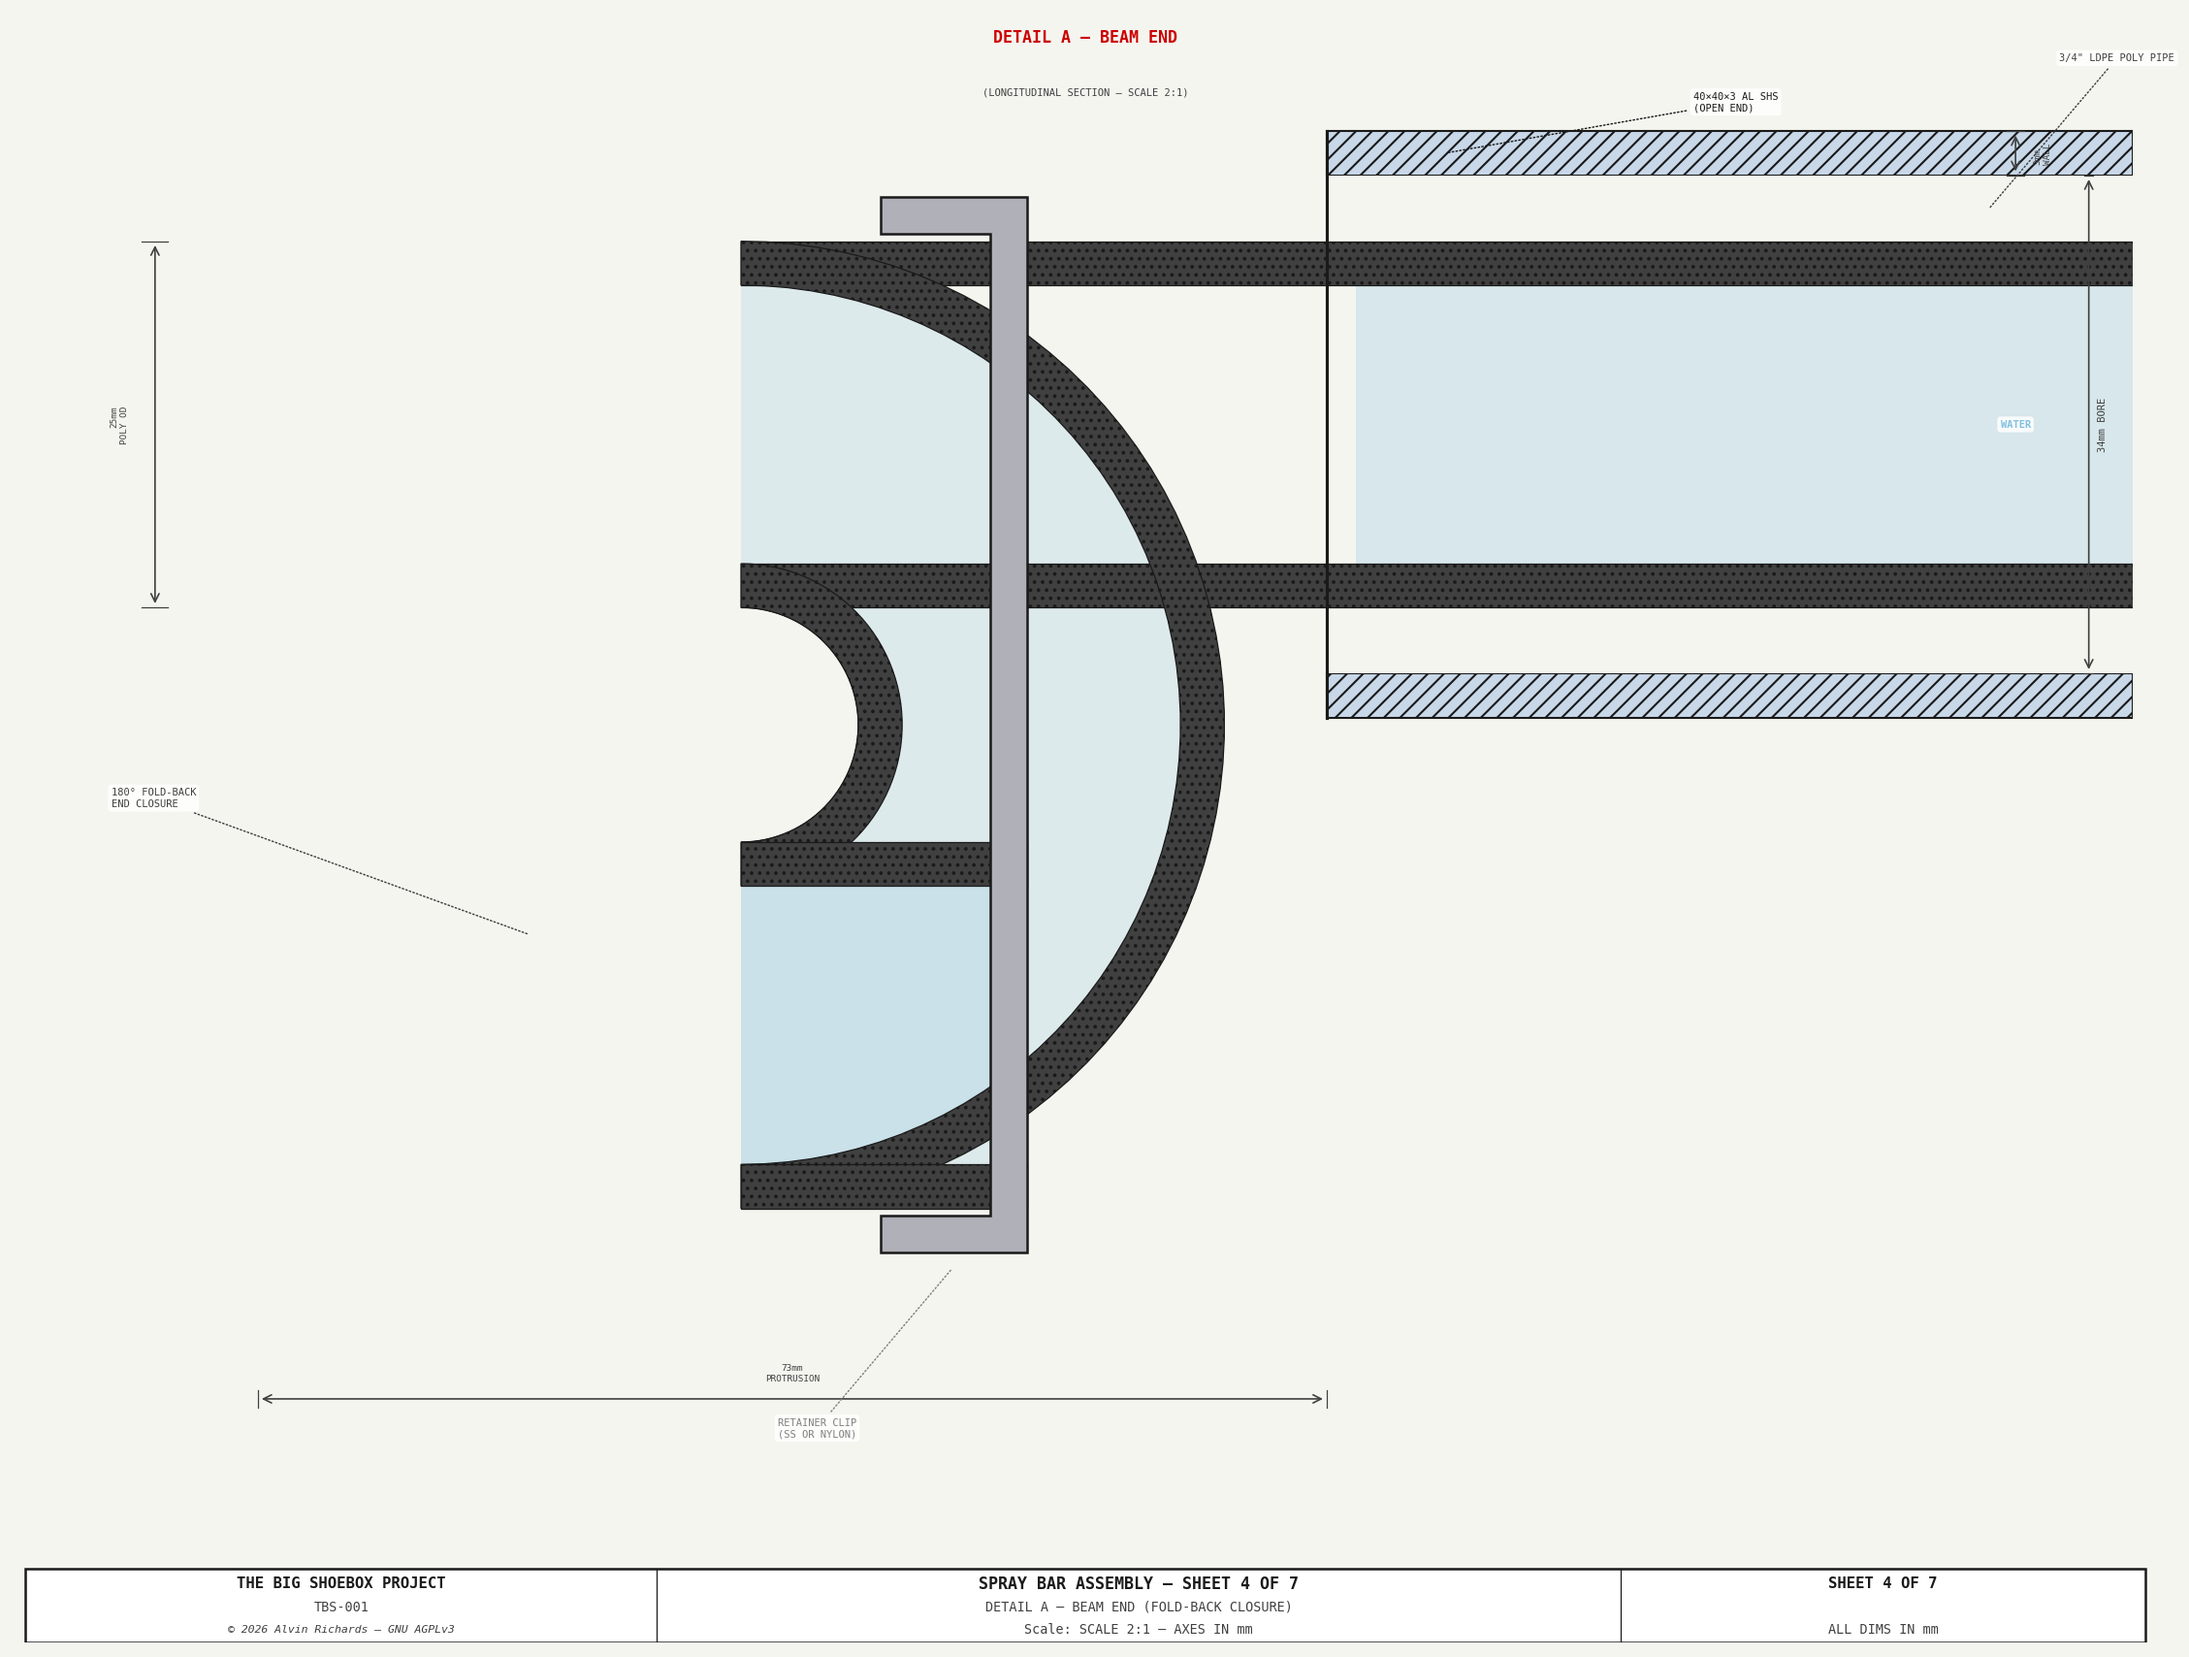
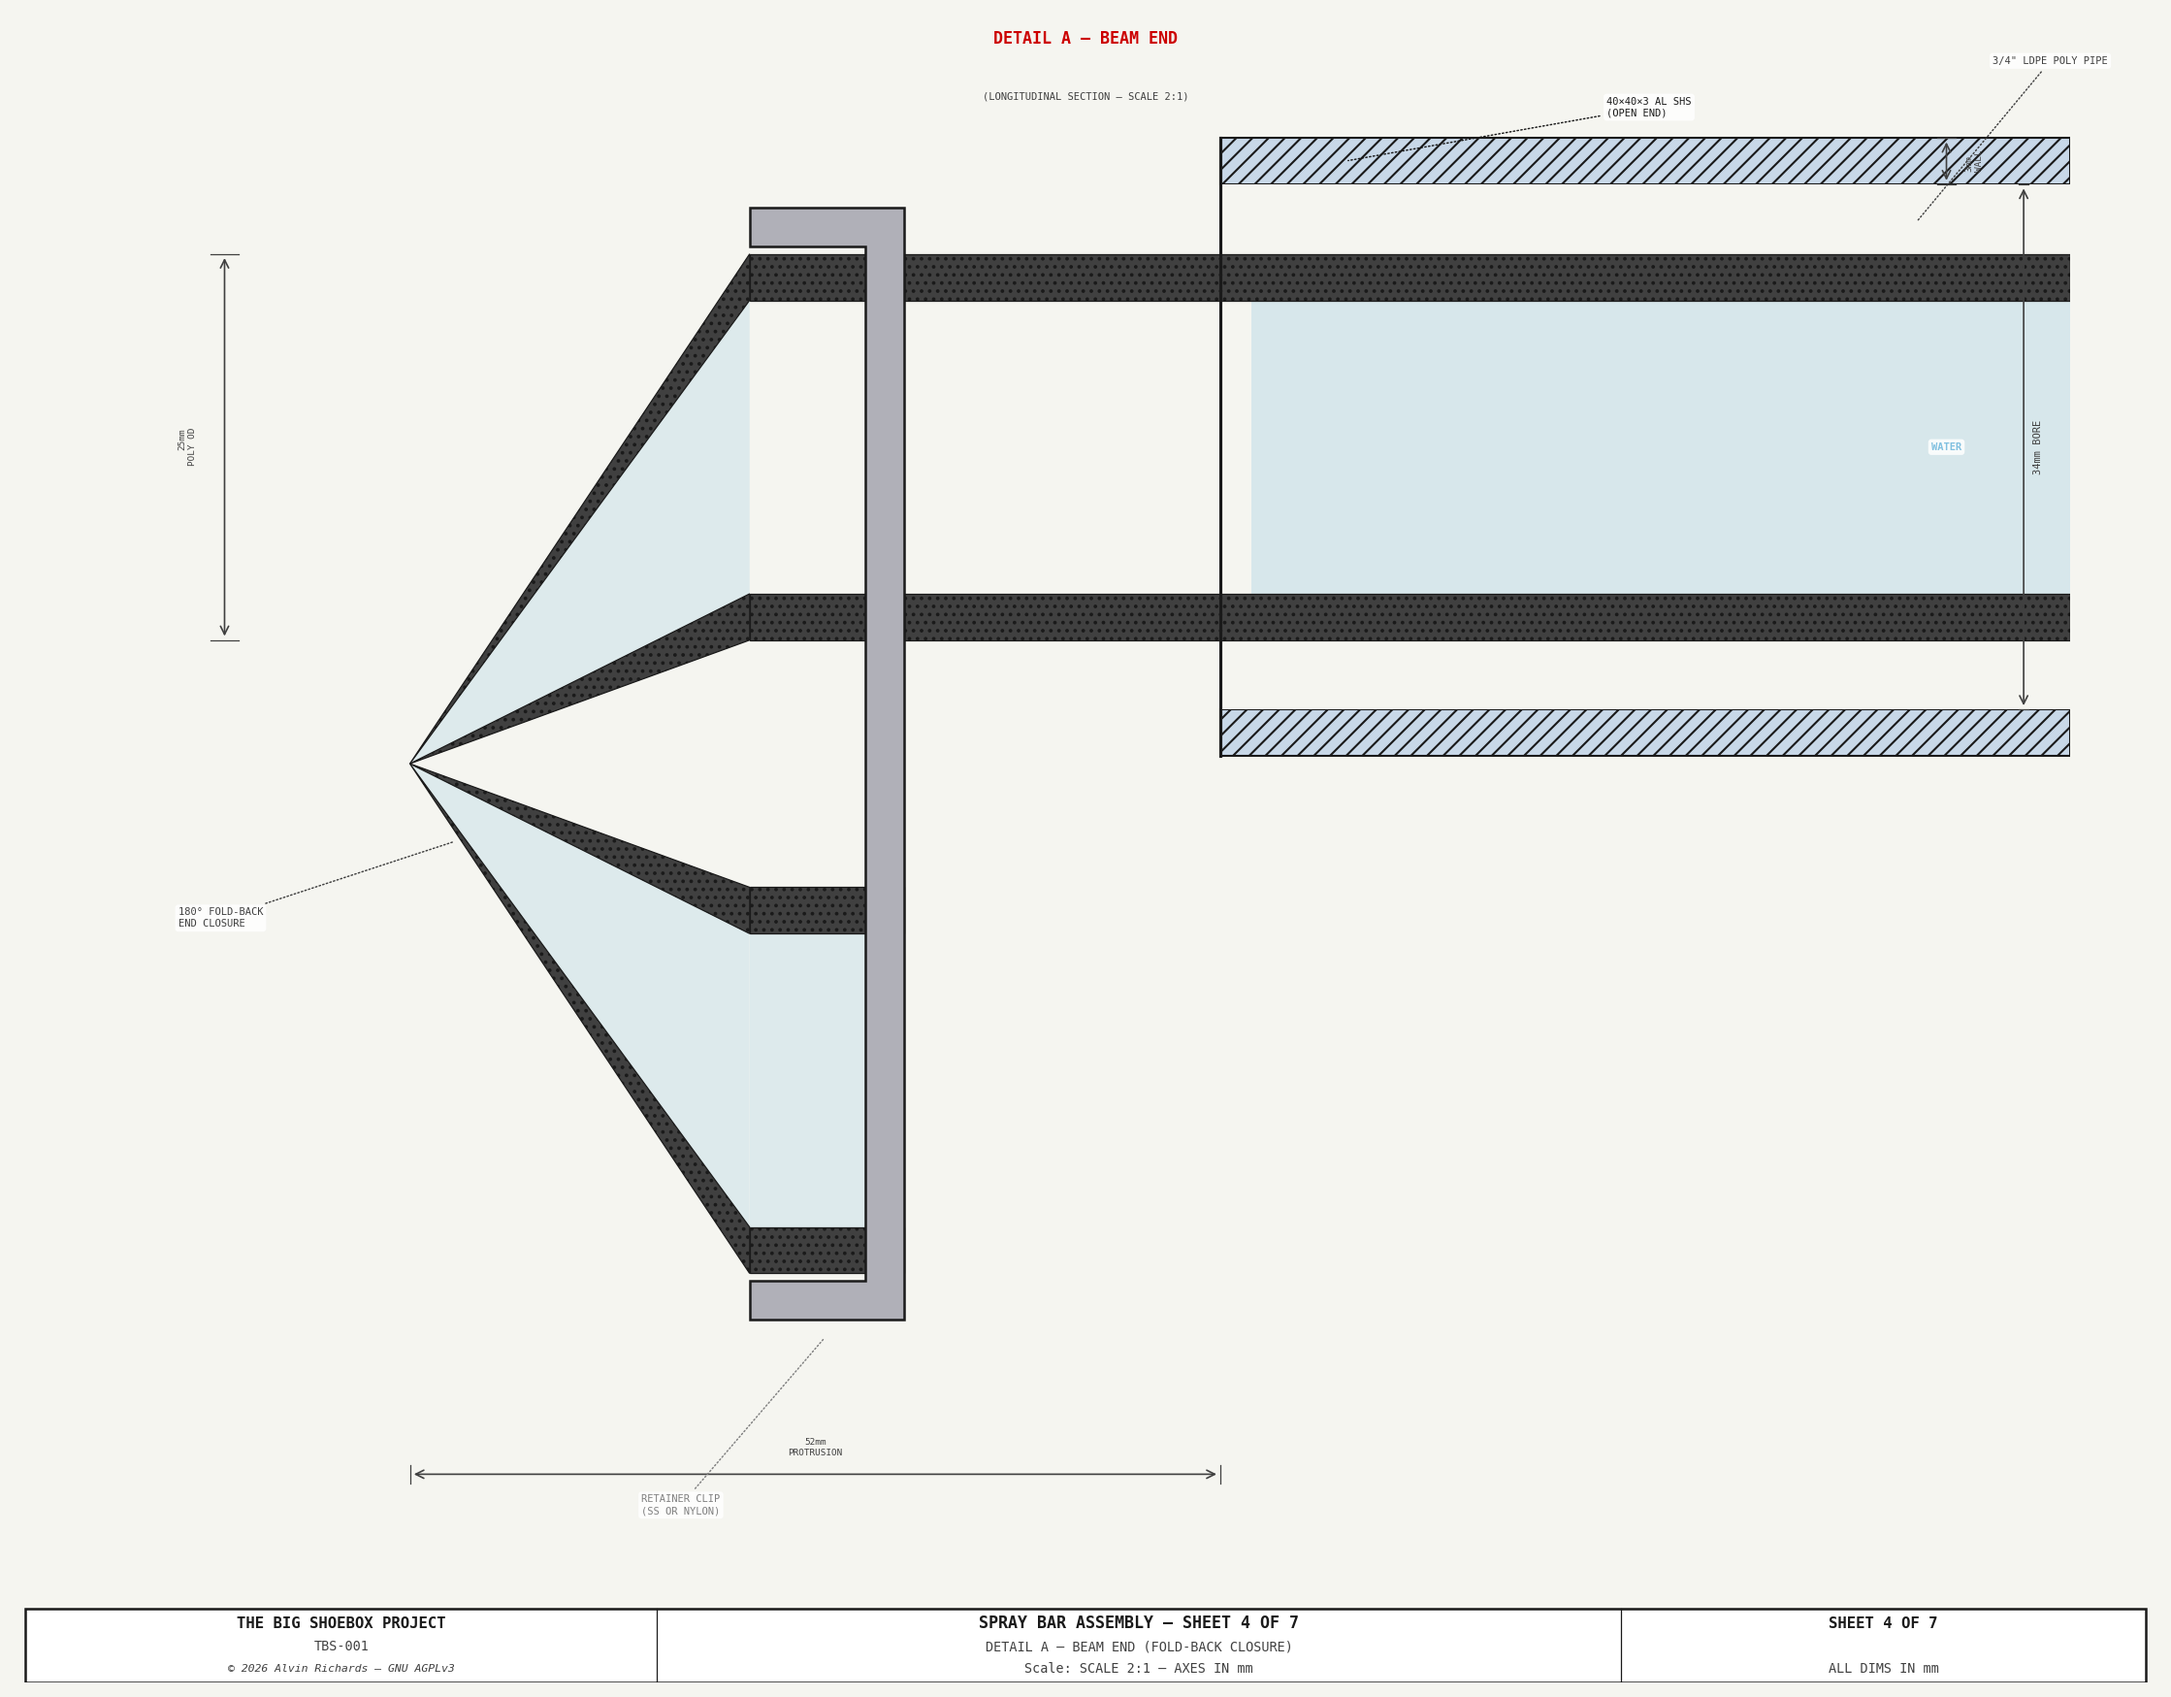
Sheet 4: redraw fold-back pipes with tapered convergence at retainer clip
Replace semicircular bend with tapered representation: pipe walls
parallel through the clip, outside edges converge to a point left
of the clip showing the fold-back closure apex.

diff --git a/generate_spray_bar_diagram.py b/generate_spray_bar_diagram.py
@@ -1103,7 +1103,12 @@ def draw_sheet4():
     fold_apex_x = beam_end_x - pipe_past
     fold_leg_len = pipe_past - bend_center_r  # straight portion of return leg
 
-    d_xl = fold_apex_x - bend_center_r - poly_od_h - 15
+    # Pre-compute taper point for view limits
+    _clip_x_pre = (fold_apex_x + fold_leg_len - 5
+                   if fold_leg_len > 10 else beam_end_x - 10)
+    _taper_x_pre = _clip_x_pre - 10 / 2 - 22
+
+    d_xl = _taper_x_pre - 20
     d_xr = 55
     d_yb = fold_leg_y - poly_od_h - 18
     d_yt = beam_half + 8
@@ -1136,99 +1141,83 @@ def draw_sheet4():
     ax_a.add_patch(Rectangle((beam_end_x, -bore_half), d_xr - beam_end_x, BEAM_BORE,
                    fc=C_BG, ec="none", zorder=3.5))
 
-    # ── Main pipe run — top and bottom walls as hatched sections ─────────
-    pipe_start_x = fold_apex_x
-    ax_a.add_patch(Rectangle((pipe_start_x, poly_id_h),
-                   d_xr - pipe_start_x, POLY_WALL,
-                   fc="#404040", ec=C_FRAME, lw=0.6, hatch="...", zorder=4))
-    ax_a.add_patch(Rectangle((pipe_start_x, -poly_od_h),
-                   d_xr - pipe_start_x, POLY_WALL,
-                   fc="#404040", ec=C_FRAME, lw=0.6, hatch="...", zorder=4))
-
-    # ── Water inside main pipe ──────────────────────────────────────────
-    ax_a.add_patch(Rectangle((beam_end_x + 2, -poly_id_h),
-                   d_xr - beam_end_x - 2, POLY_ID,
-                   fc=C_WATER, ec="none", alpha=0.25, zorder=3.8))
-
-    # ── Fold-back section (sectional view showing pipe walls) ────────────
-    bend_cy = -fold_offset / 2     # midpoint between main and fold leg centers
-    bend_cx = fold_apex_x
-
-    theta = np.linspace(np.pi / 2, -np.pi / 2, 60)
-
-    # Four arcs: outer wall outer surface, outer wall inner surface,
-    #            inner wall outer surface, inner wall inner surface
-    r_oo = bend_center_r + poly_od_h   # outer wall, outer surface
-    r_oi = bend_center_r + poly_id_h   # outer wall, inner surface
-    r_ii = bend_center_r - poly_id_h   # inner wall, inner surface
-    r_io = bend_center_r - poly_od_h   # inner wall, outer surface
-
-    def arc_pts(r):
-        return bend_cx + r * np.cos(theta), bend_cy + r * np.sin(theta)
-
-    # Outer pipe wall (outer side of bend)
-    oo_x, oo_y = arc_pts(r_oo)
-    oi_x, oi_y = arc_pts(r_oi)
-    outer_wall_xs = list(oo_x) + list(oi_x[::-1])
-    outer_wall_ys = list(oo_y) + list(oi_y[::-1])
-    ax_a.add_patch(mpatches.Polygon(list(zip(outer_wall_xs, outer_wall_ys)),
-                   closed=True, fc="#404040", ec=C_FRAME, lw=0.6,
-                   hatch="...", zorder=4))
-
-    # Inner pipe wall (inner side of bend)
-    io_x, io_y = arc_pts(r_io)
-    ii_x, ii_y = arc_pts(r_ii)
-    inner_wall_xs = list(ii_x) + list(io_x[::-1])
-    inner_wall_ys = list(ii_y) + list(io_y[::-1])
-    ax_a.add_patch(mpatches.Polygon(list(zip(inner_wall_xs, inner_wall_ys)),
-                   closed=True, fc="#404040", ec=C_FRAME, lw=0.6,
-                   hatch="...", zorder=4))
-
-    # Water fill inside the bend (between inner surfaces)
-    water_xs = list(oi_x) + list(ii_x[::-1])
-    water_ys = list(oi_y) + list(ii_y[::-1])
-    ax_a.add_patch(mpatches.Polygon(list(zip(water_xs, water_ys)),
-                   closed=True, fc=C_WATER, ec="none", alpha=0.20, zorder=3.9))
-
-    # Inner void at bend center
-    void_x, void_y = arc_pts(r_io)
-    ax_a.add_patch(mpatches.Polygon(
-        list(zip(list(io_x), list(io_y))),
-        closed=False, fc="none", ec=C_FRAME, lw=0.4, zorder=4.1))
-
-    # ── Folded-back leg — top and bottom walls ──────────────────────────
-    fold_leg_right = fold_apex_x + bend_center_r  # where the bend meets the straight leg
-    # Ensure the leg starts where the bend ends
-    fold_leg_right = fold_apex_x
-    fold_leg_left = fold_leg_right + fold_leg_len
-    if fold_leg_len > 0:
-        ax_a.add_patch(Rectangle((fold_leg_right, fold_leg_y + poly_id_h),
-                       fold_leg_len, POLY_WALL,
-                       fc="#404040", ec=C_FRAME, lw=0.6, hatch="...", zorder=4))
-        ax_a.add_patch(Rectangle((fold_leg_right, fold_leg_y - poly_od_h),
-                       fold_leg_len, POLY_WALL,
-                       fc="#404040", ec=C_FRAME, lw=0.6, hatch="...", zorder=4))
-        # Water inside return leg
-        ax_a.add_patch(Rectangle((fold_leg_right, fold_leg_y - poly_id_h),
-                       fold_leg_len, POLY_ID,
-                       fc=C_WATER, ec="none", alpha=0.20, zorder=3.9))
-
-    # ── Retainer clip (holds fold closed) ────────────────────────────────
+    # ── Retainer clip position ──────────────────────────────────────────
+    fold_leg_left = fold_apex_x + fold_leg_len
     clip_x = fold_leg_left - 5 if fold_leg_len > 10 else beam_end_x - 10
     clip_w = 10
+    clip_left_x = clip_x - clip_w / 2
+    clip_right_x = clip_x + clip_w / 2
     clip_span_top = poly_od_h + 3
     clip_span_bot = fold_leg_y - poly_od_h - 3
     clip_t = 2.5
 
+    # ── Taper geometry — outside edges converge to a point left of clip ──
+    taper_len = 22
+    taper_x = clip_left_x - taper_len
+    taper_y = fold_leg_y / 2
+
+    # ── Main pipe — parallel from clip left to right edge ────────────────
+    ax_a.add_patch(Rectangle((clip_left_x, poly_id_h),
+                   d_xr - clip_left_x, POLY_WALL,
+                   fc="#404040", ec=C_FRAME, lw=0.6, hatch="...", zorder=4))
+    ax_a.add_patch(Rectangle((clip_left_x, -poly_od_h),
+                   d_xr - clip_left_x, POLY_WALL,
+                   fc="#404040", ec=C_FRAME, lw=0.6, hatch="...", zorder=4))
+    ax_a.add_patch(Rectangle((beam_end_x + 2, -poly_id_h),
+                   d_xr - beam_end_x - 2, POLY_ID,
+                   fc=C_WATER, ec="none", alpha=0.25, zorder=3.8))
+
+    # ── Fold-back leg — parallel through clip ────────────────────────────
+    ax_a.add_patch(Rectangle((clip_left_x, fold_leg_y + poly_id_h),
+                   clip_right_x - clip_left_x, POLY_WALL,
+                   fc="#404040", ec=C_FRAME, lw=0.6, hatch="...", zorder=4))
+    ax_a.add_patch(Rectangle((clip_left_x, fold_leg_y - poly_od_h),
+                   clip_right_x - clip_left_x, POLY_WALL,
+                   fc="#404040", ec=C_FRAME, lw=0.6, hatch="...", zorder=4))
+    ax_a.add_patch(Rectangle((clip_left_x, fold_leg_y - poly_id_h),
+                   clip_right_x - clip_left_x, POLY_ID,
+                   fc=C_WATER, ec="none", alpha=0.20, zorder=3.9))
+
+    # ── Tapered sections — left of clip, converging to point ─────────────
+    _pipe_fc = "#404040"
+    _pipe_kw = dict(fc=_pipe_fc, ec=C_FRAME, lw=0.6, hatch="...", zorder=4)
+    _water_kw = dict(fc=C_WATER, ec="none", alpha=0.20, zorder=3.9)
+
+    # Main pipe top wall taper
+    ax_a.add_patch(mpatches.Polygon([
+        (clip_left_x, poly_od_h), (clip_left_x, poly_id_h),
+        (taper_x, taper_y)], closed=True, **_pipe_kw))
+    # Main pipe bottom wall taper
+    ax_a.add_patch(mpatches.Polygon([
+        (clip_left_x, -poly_id_h), (clip_left_x, -poly_od_h),
+        (taper_x, taper_y)], closed=True, **_pipe_kw))
+    # Main pipe water taper
+    ax_a.add_patch(mpatches.Polygon([
+        (clip_left_x, poly_id_h), (clip_left_x, -poly_id_h),
+        (taper_x, taper_y)], closed=True, **_water_kw))
+    # Fold-back top wall taper
+    ax_a.add_patch(mpatches.Polygon([
+        (clip_left_x, fold_leg_y + poly_od_h), (clip_left_x, fold_leg_y + poly_id_h),
+        (taper_x, taper_y)], closed=True, **_pipe_kw))
+    # Fold-back bottom wall taper
+    ax_a.add_patch(mpatches.Polygon([
+        (clip_left_x, fold_leg_y - poly_id_h), (clip_left_x, fold_leg_y - poly_od_h),
+        (taper_x, taper_y)], closed=True, **_pipe_kw))
+    # Fold-back water taper
+    ax_a.add_patch(mpatches.Polygon([
+        (clip_left_x, fold_leg_y + poly_id_h), (clip_left_x, fold_leg_y - poly_id_h),
+        (taper_x, taper_y)], closed=True, **_water_kw))
+
+    # ── Retainer clip (holds fold closed) ────────────────────────────────
     clip_verts = [
-        (clip_x - clip_w / 2, clip_span_top),
-        (clip_x + clip_w / 2, clip_span_top),
-        (clip_x + clip_w / 2, clip_span_bot),
-        (clip_x - clip_w / 2, clip_span_bot),
-        (clip_x - clip_w / 2, clip_span_bot + clip_t),
-        (clip_x + clip_w / 2 - clip_t, clip_span_bot + clip_t),
-        (clip_x + clip_w / 2 - clip_t, clip_span_top - clip_t),
-        (clip_x - clip_w / 2, clip_span_top - clip_t),
+        (clip_left_x, clip_span_top),
+        (clip_right_x, clip_span_top),
+        (clip_right_x, clip_span_bot),
+        (clip_left_x, clip_span_bot),
+        (clip_left_x, clip_span_bot + clip_t),
+        (clip_right_x - clip_t, clip_span_bot + clip_t),
+        (clip_right_x - clip_t, clip_span_top - clip_t),
+        (clip_left_x, clip_span_top - clip_t),
     ]
     ax_a.add_patch(mpatches.Polygon(clip_verts, closed=True,
                    fc="#B0B0B8", ec=C_FRAME, lw=1.2, zorder=6))
@@ -1244,9 +1233,8 @@ def draw_sheet4():
            "3/4\" LDPE POLY PIPE",
            fs=5, color="#404040", font=FONT, zorder=20, bbox=_bbox_a)
 
-    leader(ax_a, fold_apex_x - bend_center_r * 0.7,
-           bend_cy - bend_center_r * 0.7,
-           d_xl + 5, bend_cy - 5,
+    leader(ax_a, taper_x + 3, taper_y - 5,
+           d_xl + 5, taper_y - 10,
            "180° FOLD-BACK\nEND CLOSURE",
            fs=5, color="#404040", font=FONT, zorder=20, bbox=_bbox_a)
 
@@ -1260,9 +1248,8 @@ def draw_sheet4():
               fontweight="bold", bbox=_bbox_a, **FONT, zorder=15)
 
     # ── Dimensions ───────────────────────────────────────────────────────
-    protrusion = pipe_past + bend_center_r + poly_od_h
-    draw_dim_h(ax_a, fold_apex_x - bend_center_r - poly_od_h,
-               beam_end_x, d_yb + 5,
+    protrusion = beam_end_x - taper_x
+    draw_dim_h(ax_a, taper_x, beam_end_x, d_yb + 5,
                f"{protrusion:.0f}mm\nPROTRUSION",
                offset=2, fs=4.5, font=FONT)
 
